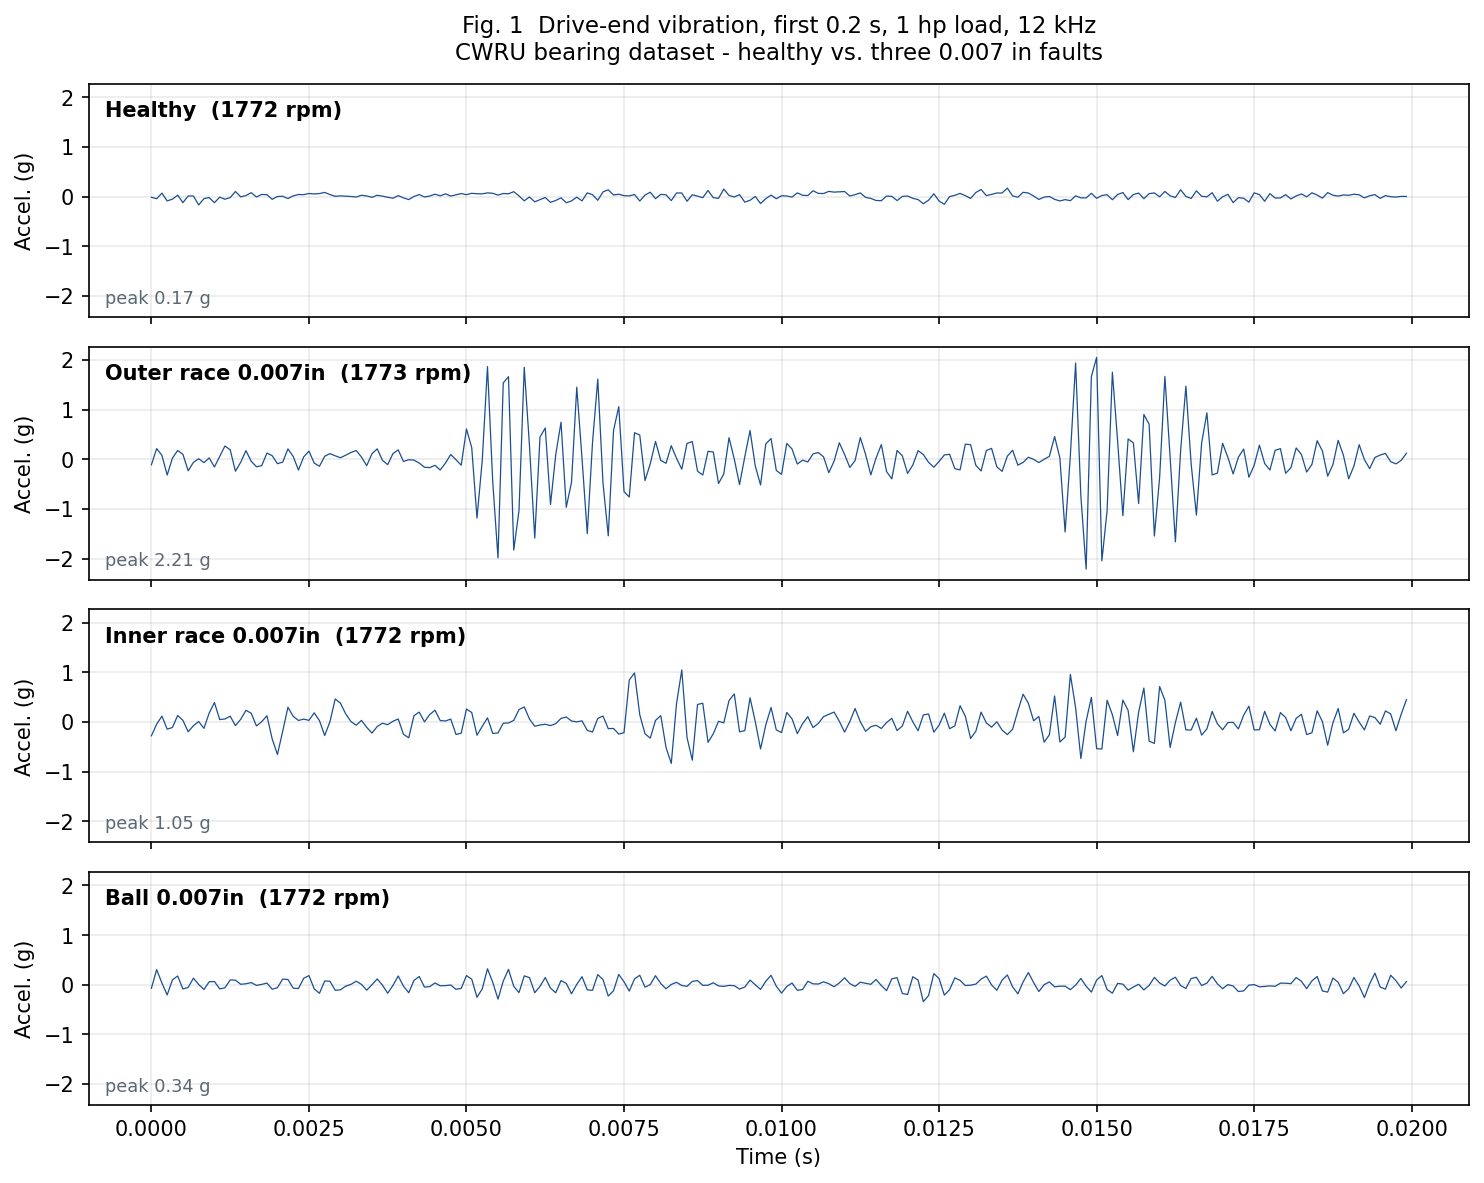
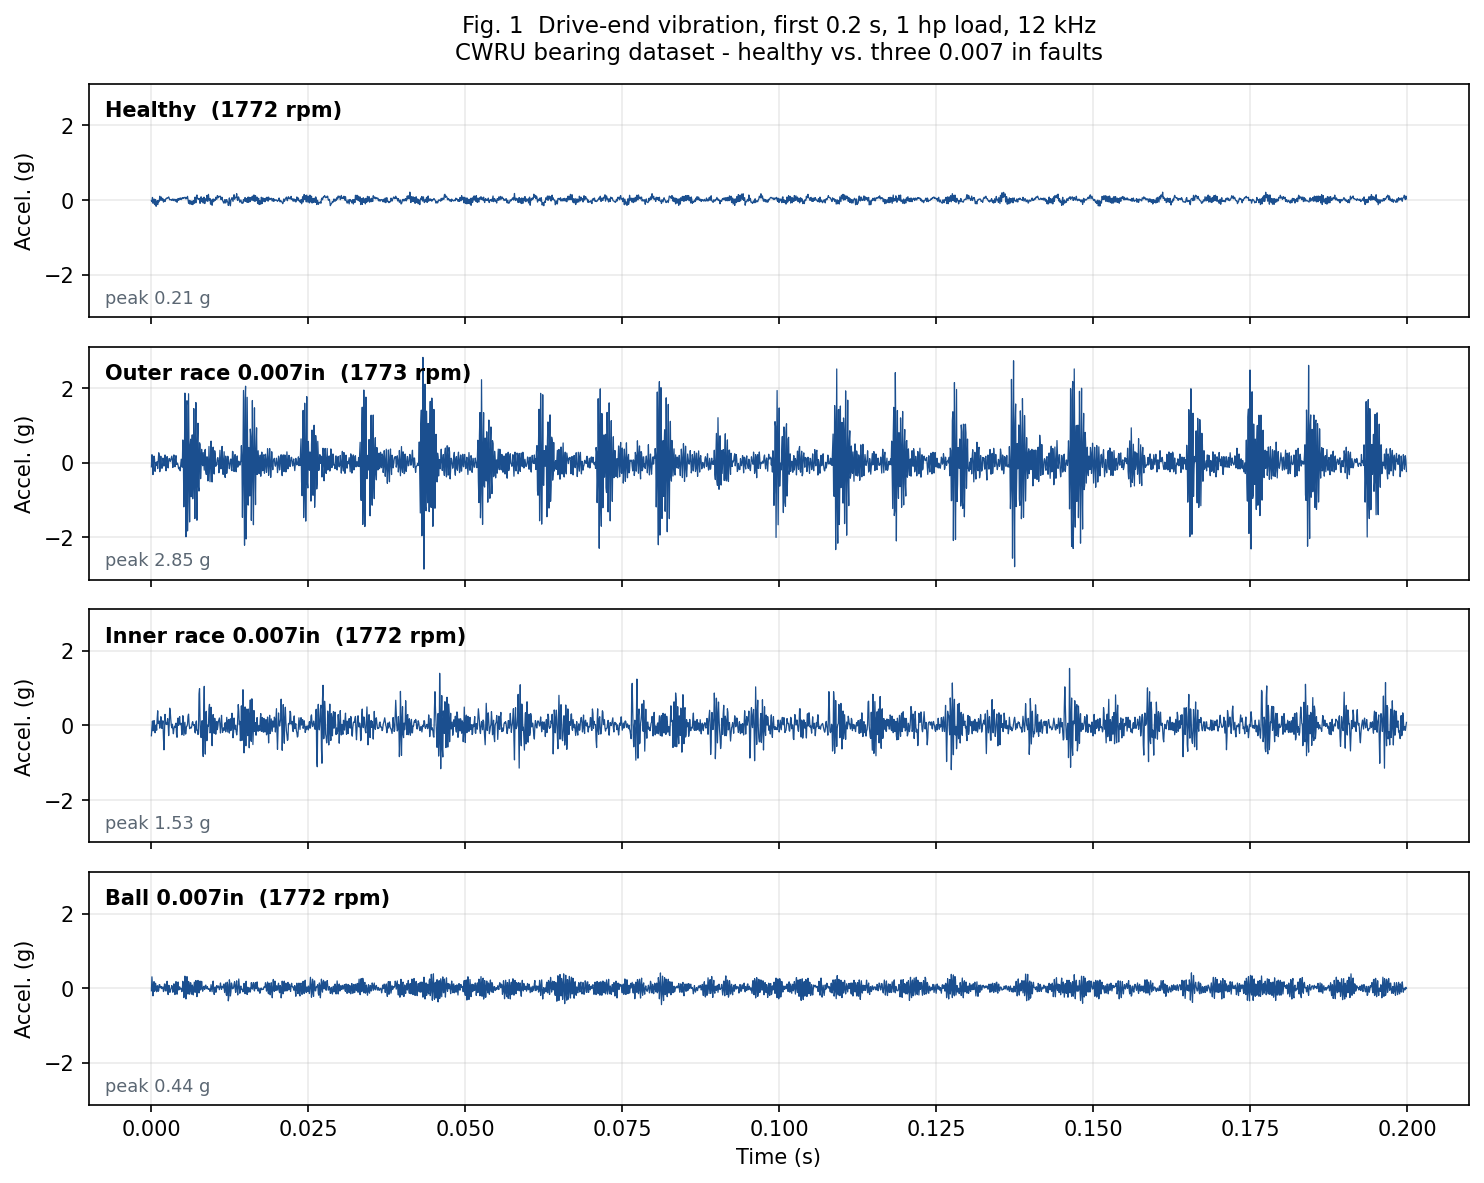
Fix figure 1, which was saved with the exercise's parameter still set
The committed figure showed 0.02 s while its own title said 0.2 s, and the
peak annotations read 0.17 / 2.21 / 1.05 / 0.34 against the 0.21 / 2.85 /
1.53 / 0.44 the fact sheet quotes. Exercise 1 asks the reader to shorten
DURATION and the save cell was run before it was put back.

It would have reached the report: section 4.1 states about 21 bursts against
a predicted 21.2, beside a figure showing two.

Two guards, because the failure was silent. The title now derives the
duration from DURATION instead of stating it, so the figure cannot contradict
itself; and the save cell refuses to write unless DURATION is 0.2, naming the
exercise as the reason. Verified by running the notebook with 0.02 and
confirming it stops.

Found by cloning the repository fresh, fetching the records with
download_data.py, and regenerating the figure - the reproduction claim in the
README, tested rather than asserted. The clone worked; the figure it produced
is the one now committed.

Also ignores the .docx and .pdf renderings of the report, which are build
products of the Markdown.

diff --git a/report/FACTS.md b/report/FACTS.md
@@ -605,32 +605,91 @@ checked rather than assumed.
 | jupyterlab | 4.6.3 |
 | platform | Windows 11, AMD64 |
 
-### 9.4 References - UNVERIFIED, check before citing
+### 9.4 References - bibliographic details verified
 
-These are the standard references for the methods used here, recalled rather
-than looked up. **The author must confirm every author, year, volume and page
-range against the publisher's record before any of them goes into a
-bibliography.** Wrong citation details are worse than no citations.
+Checked against CrossRef on 2026-09-24. Authors, journal, volume, pages and
+DOI below are confirmed and may be cited as written.
 
-1. Randall, R. B. and Antoni, J. "Rolling element bearing diagnostics - a
-   tutorial." *Mechanical Systems and Signal Processing*, 2011. The standard
-   tutorial on envelope analysis for bearings; the right citation for the
-   carrier-and-modulation argument in section 3.
+1. Randall, R. B., & Antoni, J. (2011). Rolling element bearing diagnostics -
+   a tutorial. *Mechanical Systems and Signal Processing*, **25**(2), 485-520.
+   doi:10.1016/j.ymssp.2010.07.017
+   The standard tutorial on envelope analysis; cite for the carrier-and-
+   modulation argument in section 3.
 
-2. Antoni, J. "Fast computation of the kurtogram for the detection of transient
-   faults." *Mechanical Systems and Signal Processing*, 2007. (See also Antoni
-   2006 on spectral kurtosis.) The right citation for the kurtogram, which
-   section 3.4 departs from and should therefore cite.
+2. Antoni, J. (2007). Fast computation of the kurtogram for the detection of
+   transient faults. *Mechanical Systems and Signal Processing*, **21**(1),
+   108-124. doi:10.1016/j.ymssp.2005.12.002
+   The kurtogram. Section 3.4 departs from it and should therefore cite it.
 
-3. Smith, W. A. and Randall, R. B. "Rolling element bearing diagnostics using
-   the Case Western Reserve University data: a benchmark study." *Mechanical
-   Systems and Signal Processing*, 2015. A published assessment of this exact
-   dataset which classifies records by how diagnosable they are. **Worth
-   reading before submitting**: it bears directly on the 0.014 in outer-race
-   record that behaves anomalously here, and citing it turns that anomaly from
-   an unexplained oddity into a known property of the dataset.
+3. Smith, W. A., & Randall, R. B. (2015). Rolling element bearing diagnostics
+   using the Case Western Reserve University data: a benchmark study.
+   *Mechanical Systems and Signal Processing*, **64-65**, 100-131.
+   doi:10.1016/j.ymssp.2015.04.021
+   A published assessment of this exact dataset. See 9.5.
 
-If the author would rather not cite at all, section 1 can carry the background
-in its own words with no references, and the report loses little - it is a
-project report, not a paper. Citing three sources badly is worse than citing
-none.
+---
+
+### 9.5 What the benchmark study says about these records
+
+**Verification status, which decides how this may be written.**
+
+| | status |
+|---|---|
+| Bibliographic details above | **verified** against CrossRef |
+| The substance below | **corroborated by secondary sources, not read in the original** |
+| Any direct quotation | **not verified - do not quote** |
+
+The substance, as reported by sources citing the study: Smith and Randall
+applied three established diagnostic techniques to the whole CWRU dataset and
+graded every record by how diagnosable it proved. Relatively few records gave
+the classical characteristics of their stated fault type; several were
+reported as difficult or not diagnosable by any technique applied, **the
+0.014 in drive-end inner-race and outer-race records among them, along with
+most of the ball-fault records**.
+
+**Until the PDF is in hand, paraphrase and attribute - do not quote.** A
+paraphrase that is slightly loose is a small error; a fabricated quotation is
+a serious one, and a reader who checks will check the quotation first.
+
+### 9.6 How this may be used, and how it may not
+
+Three places in the report currently say, in effect, "I do not know why":
+
+| section | the unexplained thing |
+|---|---|
+| 4.1 | outer race 0.014 in has kurtosis 2.94, below the healthy record's 2.98 |
+| 4.5 | that record is only just correct, at 1.2x the threshold |
+| 4.6 | the 0.014 in column is the worst for every feature set |
+
+All three may become "this is a known property of the dataset, and the method
+still gave the correct call here", with the citation attached.
+
+**There is a second and larger use.** The ball fault is not diagnosed here at
+any diameter, and that is reported as this project's clearest failure. If most
+ball-fault records are not diagnosable by established techniques either, then
+the failure is a property of the data rather than of the method. Say so, and
+say that it does not make the method better - it makes the result *legible*,
+which is what a limitation section is for.
+
+**What must not be written.** Not "outperforms the published benchmark", and
+nothing of that shape.
+
+Section 4.5.1 establishes that in the 1x-to-5x tier a verdict does not survive
+a two percent change in record length. The outer-race 0.014 in call sits at
+1.2x - inside that tier. It is a correct call in the band the report itself
+marks as unreliable. A reviewer who reaches 4.5.1 will see the contradiction,
+and the whole report's credibility rests on exactly the kind of care that
+claim would abandon.
+
+Wording that is both true and stronger:
+
+> This record is reported in the benchmark literature as difficult to diagnose
+> by established techniques. The rule proposed here gives the correct fault
+> location for it, but at 1.2x the decision threshold - inside the tier this
+> work marks as tentative, and shown in 4.5.1 to be unstable against a two
+> percent change in record length. It is therefore offered as a correct call
+> within an interval the method declines to be confident about, not as
+> evidence of improvement over published methods.
+
+That paragraph demonstrates the judgement the report is trying to show. The
+triumphant version demonstrates the opposite.
